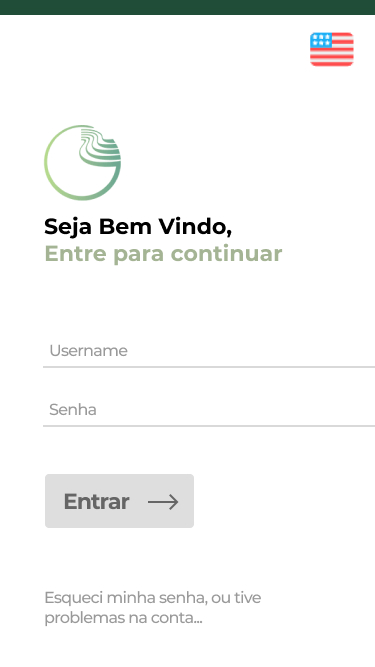
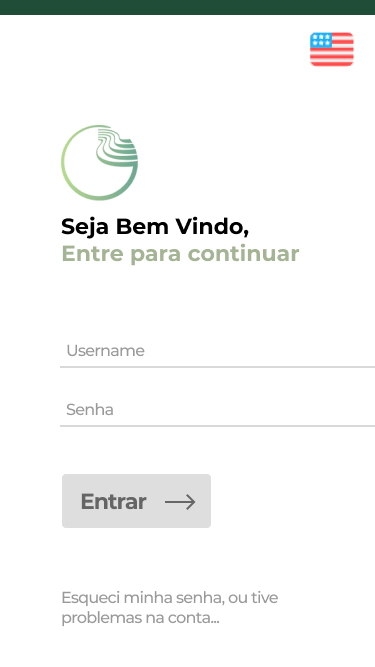
ta indo..

diff --git a/src/App.js b/src/App.js
@@ -1,8 +1,27 @@
 import React from 'react';
 import './index.css';
+import Popup from "reactjs-popup";
 
 import homeWeb from './img/Home.png';
 import loginMobile from './img/Login.jpg';
+import solicitacoes from './img/Solicitações.jpg';
+import local from './img/Local.jpg';
+import avaliacao from './img/Avaliação.jpg';
+import impacto from './img/Impacto.jpg';
+import perfil from './img/Solicitações-2.jpg';
+import enviado from './img/Solicitações-1.jpg';
+import avalExpand from './img/Avaliação-1.jpg';
+
+
+//web Imgs
+import pesqusiadores from './img/webImg/Pesquisadores-1.jpg';
+import geositios from './img/webImg/Geosítios.jpg';
+import solicitacoesWeb from './img/webImg/Solicitações-1.jpg';
+import geositioMain from './img/webImg/Relatório Geosítio.jpg';
+import geositio1 from './img/webImg/Relatório Geosítio-1.jpg';
+import geopark from './img/webImg/Relatório Geopark.jpg';
+import geopark1 from './img/webImg/Relatório Geopark-1.jpg';
+
 
 function App() {
   return (
@@ -15,14 +34,81 @@ function App() {
       <h2>Geoparque Araripe</h2>
       <div className="main-imgs">
         <img id="imgWeb" src={homeWeb} alt=""/>
-        <img id="imgMobile" src={loginMobile} alt=""/>
+        <img className="mainImg" id="imgMobile" src={loginMobile} alt=""/>
       </div>
       <h3>O Problema:</h3>
       <p>A necessidade de acompanhar mais de perto o estado dos gesítios do geoparque araripe é cada vez maior, mas esse processo é demorado pois tanto o levantamento dos dados in-loco como o processamento é analógico, por conta disso o intuito desse projeto e facilitar a coleta de dados por meio de um app mobile, e o processamento e mostragem de informações pela plataforma Web.</p>
       <h3>Processo de criação:</h3>
       <p>Como o objetivo principal é facilitar a coleta de dados, naturalmente o levantamento das necessidades e ambiênte em que o pesquisador faria a coleta era o principal, e a partir daí foram desenvolvidas as Ui do aplicativo mobile.</p>   
-      <h3>Telas Geopark Mobile:</h3>
-      
+      <div>
+
+        <h3>Telas Geopark Mobile:</h3>
+        <div id="flex">
+          <img id="imgMobile" src={loginMobile} alt=""/>
+          <img id="imgMobile" src={solicitacoes} alt=""/>
+          <img id="imgMobile" src={perfil} alt=""/>
+          <p className="mainMobile">A necessidade de acompanhar mais de perto o estado dos gesítios do geoparque araripe só aumenta, mas esse processo é demorado pois tanto o levantamento dos dados in-loco como o processamento é analógico, por conta disso o intuito desse projeto e facilitar a coleta de dados por meio de um app mobile, e o processamento e mostragem de informações pela plataforma Web.</p>
+        </div>
+        <div id="flex">
+          <div className="secondColumn">
+            <img id="imgMobile" src={local} alt=""/>
+            <img id="imgMobile" src={avalExpand} alt=""/>
+            <img id="imgMobile" src={impacto} alt=""/>
+            <img id="imgMobile" src={enviado} alt=""/>
+          </div>
+        </div>
+        <div>
+          
+        </div>
+
+
+      </div>
+      <div>
+        <h3>Telas Geopark Web:</h3>
+          <div id="flex">
+            <img id="webMainContent" src={homeWeb} alt=""/>
+            <p className="mainMobile">A aplicação Web tem como usuário o administrador, e será onde os relatórios serão apresentados, e o gerenciamento dos pesquisadores, geosítios e solicitações serão feitos</p>
+          </div>
+          <div className="webPopup">
+            <Popup trigger={<img id="webContent" src={pesqusiadores} alt=""/>} modal closeOnDocumentClick position="left center">
+              <div className="containerImg">
+                <img className="imgWebExpand" src={pesqusiadores} alt=""/>
+              </div>
+            </Popup>
+            <Popup trigger={<img id="webContent" src={solicitacoesWeb} alt=""/>} modal closeOnDocumentClick position="left center">
+              <div className="containerImg">
+                <img className="imgWebExpand" src={solicitacoesWeb} alt=""/>
+              </div>
+            </Popup>
+          </div>
+
+          <div className="webPopup">
+            <Popup trigger={<img id="webContent" src={geositioMain} alt=""/>} modal closeOnDocumentClick position="left center">
+              <div className="containerImg">
+                <img className="imgWebExpand" src={geositioMain} alt=""/>
+              </div>
+            </Popup>
+            <Popup trigger={<img id="webContent" src={geositio1} alt=""/>} modal closeOnDocumentClick position="left center">
+              <div className="containerImg">
+                <img className="imgWebExpand" src={geositio1} alt=""/>
+              </div>
+            </Popup>
+          </div>
+
+          <div className="webPopup">
+            <Popup trigger={<img id="webContent" src={geopark} alt=""/>} modal closeOnDocumentClick position="left center">
+              <div className="containerImg">
+                <img className="imgWebExpand" src={geopark} alt=""/>
+              </div>
+            </Popup>
+            <Popup trigger={<img id="webContent" src={geopark1} alt=""/>} modal closeOnDocumentClick position="left center">
+              <div className="containerImg">
+                <img className="imgWebExpand" src={geopark1} alt=""/>
+              </div>
+            </Popup>
+          </div>
+
+      </div>
     
     
     

diff --git a/src/index.css b/src/index.css
@@ -1,13 +1,18 @@
 @import url('https://fonts.googleapis.com/css?family=Source+Code+Pro:400,500,600,700&display=swap');
+@import url('https://fonts.googleapis.com/css?family=Noto+Sans|Noto+Sans+JP:300,400,500,700,900&display=swap');
+
 
 
 body {
+  margin: 0px;
+  background: #F9F9F9;
   margin-left: 10vh;
   margin-right: 10vh;
   padding: 10vh;
   box-sizing: border-box;
-  font-family: 'Source Code Pro', monospace;
+  font-family: 'Noto Sans JP', sans-serif;
   -webkit-font-smoothing: antialiased;
+  background: linear-gradient(180deg, rgba(98, 160, 137, 0.2) 0%, rgba(165, 180, 149, 0.2) 100%), #FFFFFF;
 }
 
 h1 {
@@ -39,19 +44,75 @@ h2{
 }
 
 #imgWeb {
-  width: 790.68px;
+  width: 800.16px;
   height: 380px;
   box-shadow: 0px 4px 10px rgba(0, 0, 0, 0.1);
+}
+
+#webMainContent{
+  width: 758.05px;
+  height: 360px;
+}
+
+#webContent{
+  width: 526.42px;
+  height: 250px;
+  margin-bottom: 20px;
+}
+
+.webPopup > :first-child{
+  padding-right: 20px;
+}
+
+.mainImg{
+  margin-left: 55px;
+}
+
+.mainMobile {
+  font-weight: 500;
+  width: 214.78px;
+  height: 380px;
+  letter-spacing: -0.04em;
+  margin: 0;
+  padding: 0;
 }
 
 #imgMobile {
   width: 214.78px;
   height: 380px;
-  margin-left: 55px;
   box-shadow: 0px 4px 10px rgba(0, 0, 0, 0.15);
 }
 
 p {
-  font-size: 16px;
+  font-size: 17px;
+  letter-spacing: -0.02em;
 }
 
+#flex {
+  display: inline-flex;
+}
+
+.secondColumn {
+  margin-top: 30px;
+}
+
+.secondColumn > :not(:first-child){
+  margin-left: 55px;
+}
+
+#flex > :not(:first-child){
+  margin-left: 55px;
+}
+
+.imgWebExpand {
+  width: 842.28px;
+  height: 400px;
+}
+
+.popup-content {
+  background: none !important;
+  padding: 0px !important;
+  box-sizing: border-box;
+  margin: auto !important;
+  border: 0px !important;
+}

diff --git a/src/index.js b/src/index.js
@@ -10,3 +10,4 @@ ReactDOM.render(<App />, document.getElementById('root'));
 // unregister() to register() below. Note this comes with some pitfalls.
 // Learn more about service workers: https://bit.ly/CRA-PWA
 serviceWorker.unregister();
+
